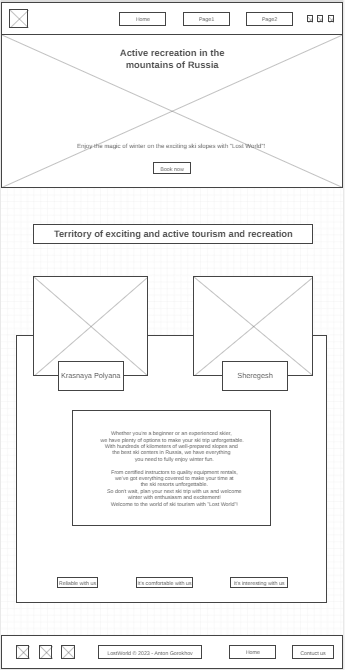
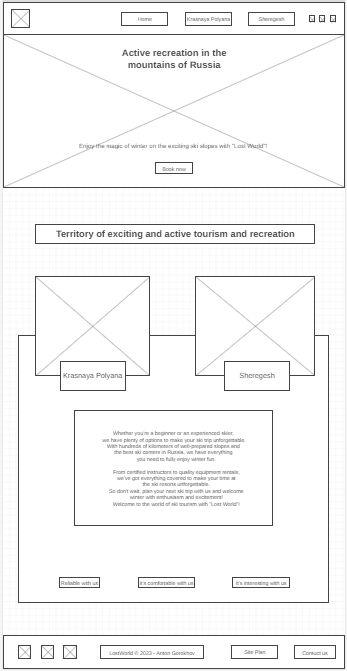
W10 Assignment: Personal Site HTML

diff --git a/lostworld/sheregesh.html b/lostworld/sheregesh.html
@@ -1,0 +1,107 @@
+<!DOCTYPE html>
+<html lang="en">
+<head>
+    <meta charset="UTF-8">
+    <meta http-equiv="X-UA-Compatible" content="IE=edge">
+    <meta name="viewport" content="width=device-width, initial-scale=1.0">
+    <title>Lost World | Sheregesh</title>
+    <link rel="stylesheet" href="styles/style.css">
+</head>
+<body>
+    <div id="content">
+        <header>
+            <a id="logo_link" href="index.html">
+                <img class="logo" src="images/logo.png" alt="Lost World Logo">
+            </a>
+            <nav>
+                <a href="index.html">Home</a>
+                <a href="krasnayapolyana.html">Krasnaya Polyana</a>
+                <a href="sheregesh.html">Sheregesh</a>
+            </nav>
+            <div class="social">
+                <a href="https://facebook.com" target="_blank">
+                    <img src="images/facebook.png" alt="fb icon">
+                </a>
+                <a href="https://twitter.com" target="_blank">
+                    <img src="images/twitter.png" alt="twitter icon">
+                </a>
+                <a href="https://instagram.com" target="_blank">
+                    <img src="images/instagram.png" alt="instagram icon">
+                </a>
+            </div>
+        </header>
+        <div id="hero">
+            <div id="hero-box">
+                <img id="hero-img" src="images/sheregesh-hero.png" alt="Sheregesh Hero">
+            </div>
+            <section id="hero-msg">
+                <h1 class="home-title">Active recreation in the Sheregesh</h1>
+                <h4>Enjoy the magic of winter with "Lost World"!</h4>
+                <div class='button-box'>
+                    <a class='book' href="contactus.html">Book Now</a>
+                </div>
+            </section>
+        </div>
+        
+        <main>
+
+            <div class="sheregesh-grid">
+                <img class="sheregesh-img" src="images/sheregesh-img1.png" alt="Sheregesh">
+                <img class="sheregesh-img" src="images/sheregesh-img2.png" alt="Sheregesh">
+                <div id="sheregesh-background"></div>
+                <p>
+                    Sheregesh is one of the most popular and sought-after
+                    ski resorts in Russia. It is located in the Kemerovo region,
+                    in the Altai Mountains, in the heart of Siberia and
+                    offers a wide range of entertainment for winter sports lovers.
+                    
+                    The main feature of Sheregesh is its unique mountain,
+                    known as the "Mountain Range". With slopes up to 1,320 meters high,
+                    the resort offers a variety of pistes and slopes suitable
+                    for both beginners and experienced skiers and snowboarders.
+                    There are also modern lifts, including chairlifts,
+                    providing fast and comfortable lifting power.
+                    
+                    Sheregesh has a well-developed infrastructure.
+                    The resort offers a wide selection of hotels,
+                    cafes and restaurants where you can relax and have
+                    a snack after active skiing. 
+                </p>
+                <p>
+                    There is also ski equipment
+                    rental and professional instructors ready to help beginners
+                    master and improve their skills.
+                    
+                    One of the main attractions of Sheregesh is
+                    "Bolshaya Utyuganka" - a ski complex where various competitions
+                    are held, including the Snowboard World Cup. Various festivals,
+                    concerts and other entertainment events are also held here every year.
+                    
+                    The Sheregesh resort is actively developing and attracts
+                    more and more tourists with its excellent conditions for
+                    ski holidays. Thanks to its accessibility, beautiful nature
+                    and variety of entertainment, Sheregesh is considered one
+                    of the best ski resorts in the country.
+                </p>
+            </div>
+
+        </main>
+        <footer>
+            <div class="social">
+                <a href="https://facebook.com" target="_blank">
+                    <img src="images/facebook.png" alt="fb icon">
+                </a>
+                <a href="https://twitter.com" target="_blank">
+                    <img src="images/twitter.png" alt="twitter icon">
+                </a>
+                <a href="https://instagram.com" target="_blank">
+                    <img src="images/instagram.png" alt="instagram icon">
+                </a>
+            </div>
+            <p>Lost World &copy; 2023 - Anton Gorokhov</p>
+            <p><a href="site-plan.html">Site Plan</a></p>
+            <p><a href="contactus.html">Contact Us</a></p>
+        </footer>
+    </div>
+</body>
+</html>

diff --git a/lostworld/krasnayapolyana.html b/lostworld/krasnayapolyana.html
@@ -1,0 +1,102 @@
+<!DOCTYPE html>
+<html lang="en">
+<head>
+    <meta charset="UTF-8">
+    <meta http-equiv="X-UA-Compatible" content="IE=edge">
+    <meta name="viewport" content="width=device-width, initial-scale=1.0">
+    <title>Lost World | Krasnaya Polyana</title>
+    <link rel="stylesheet" href="styles/style.css">
+</head>
+<body>
+    <div id="content">
+        <header>
+            <a id="logo_link" href="index.html">
+                <img class="logo" src="images/logo.png" alt="Lost World Logo">
+            </a>
+            <nav>
+                <a href="index.html">Home</a>
+                <a href="krasnayapolyana.html">Krasnaya Polyana</a>
+                <a href="sheregesh.html">Sheregesh</a>
+            </nav>
+            <div class="social">
+                <a href="https://facebook.com" target="_blank">
+                    <img src="images/facebook.png" alt="fb icon">
+                </a>
+                <a href="https://twitter.com" target="_blank">
+                    <img src="images/twitter.png" alt="twitter icon">
+                </a>
+                <a href="https://instagram.com" target="_blank">
+                    <img src="images/instagram.png" alt="instagram icon">
+                </a>
+            </div>
+        </header>
+        <div id="hero">
+            <div id="hero-box">
+                <img id="hero-img" src="images/krasnaya-polyana-hero.png" alt="Krasnaya Polyana Hero">
+            </div>
+            <section id="hero-msg">
+                <h1 class="home-title">Active recreation in the Krasnaya Polyana</h1>
+                <h4>Enjoy the magic of winter with "Lost World"!</h4>
+                <div class='button-box'>
+                    <a class='book' href="contactus.html">Book Now</a>
+                </div>
+            </section>
+        </div>
+        
+        <main>
+
+            <div class="krasnaya-polyana-grid">
+                <img class="krasnaya-polyana-img" src="images/krasnaya-polyana-img1.png" alt="krasnaya-polyana">
+                <img class="krasnaya-polyana-img" src="images/krasnaya-polyana-img2.png" alt="krasnaya-polyana">
+                <div id="krasnaya-polyana-background"></div>
+                <p>
+                    Krasnaya Polyana is a popular ski resort
+                    located in the picturesque Caucasus Mountains of Russia.
+                    With its unique mountain scenery, abundance of snow and
+                    modern ski slopes, Krasnaya Polyana is an ideal destination
+                    for winter fun lovers.
+                    The resort offers a wide variety of trails for skiers
+                    of all skill levels, from beginners to advanced athletes.
+                    Here you will find several kilometers of well-prepared trails
+                    offering excellent skiing conditions. In addition, the resort
+                    offers an extensive network of ski lifts, which provide
+                    convenience and quick access to all slopes.
+                    Krasnaya Polyana also has many opportunities for freeriding,
+                    snow safaris and other types of winter activities.
+                </p>
+                <p>
+                    You can rent equipment directly from the resort or hire
+                    an instructor to improve your skiing or snowboarding skills.
+                    In addition to winter sports, Krasnaya Polyana also has
+                    ski schools where children and adults can learn to ski or
+                    snowboard under the guidance of experienced instructors.
+                    The resort also offers a wide range of off-slope activities.
+                    You can enjoy snowmobiling, rope rides or visit cafes and
+                    restaurants serving national and international cuisine.
+                    Fresh mountain air, magnificent views of the surrounding
+                    nature and the opportunity to forget about everyday worries
+                    make a trip to Krasnaya Polyana an unforgettable experience that
+                    will delight skiers and snowboarders of any level.
+                </p>
+            </div>
+
+        </main>
+        <footer>
+            <div class="social">
+                <a href="https://facebook.com" target="_blank">
+                    <img src="images/facebook.png" alt="fb icon">
+                </a>
+                <a href="https://twitter.com" target="_blank">
+                    <img src="images/twitter.png" alt="twitter icon">
+                </a>
+                <a href="https://instagram.com" target="_blank">
+                    <img src="images/instagram.png" alt="instagram icon">
+                </a>
+            </div>
+            <p>Lost World &copy; 2023 - Anton Gorokhov</p>
+            <p><a href="site-plan.html">Site Plan</a></p>
+            <p><a href="contactus.html">Contact Us</a></p>
+        </footer>
+    </div>
+</body>
+</html>

diff --git a/lostworld/index.html b/lostworld/index.html
@@ -1,0 +1,93 @@
+<!DOCTYPE html>
+<html lang="en">
+<head>
+    <meta charset="UTF-8">
+    <meta http-equiv="X-UA-Compatible" content="IE=edge">
+    <meta name="viewport" content="width=device-width, initial-scale=1.0">
+    <title>Lost World | Home</title>
+    <link rel="stylesheet" href="styles/style.css">
+</head>
+<body>
+    <div id="content">
+        <header>
+            <a id="logo_link" href="index.html">
+                <img class="logo" src="images/logo.png" alt="Lost World Logo">
+            </a>
+            <nav>
+                <a href="index.html">Home</a>
+                <a href="krasnayapolyana.html">Krasnaya Polyana</a>
+                <a href="sheregesh.html">Sheregesh</a>
+            </nav>
+            <div class="social">
+                <a href="https://facebook.com" target="_blank">
+                    <img src="images/facebook.png" alt="fb icon">
+                </a>
+                <a href="https://twitter.com" target="_blank">
+                    <img src="images/twitter.png" alt="twitter icon">
+                </a>
+                <a href="https://instagram.com" target="_blank">
+                    <img src="images/instagram.png" alt="instagram icon">
+                </a>
+            </div>
+        </header>
+        <div id="hero">
+            <div id="hero-box">
+                <img id="hero-img" src="images/home-hero.png" alt="People enjoying sun and mountains">
+            </div>
+            <section id="hero-msg">
+                <h1 class="home-title">Active recreation in the mountains of Russia</h1>
+                <h4>Enjoy the magic of winter on the exciting ski slopes with "Lost World"!</h4>
+                <div class='button-box'>
+                    <a class='book' href="contactus.html">Book Now</a>
+                </div>
+            </section>
+        </div>
+        
+        <main>
+            <div>
+                <h1 class="home-title">Territory of exciting and active tourism and recreation</h1>
+            </div>
+
+            <div class="home-grid">
+                <img class="home-img" src="images/home-img1.png" alt="krasnaya-polyana">
+                <h3>Krasnaya Polyana</h3>
+                <img class="home-img" src="images/home-img2.png" alt="sheregesh">
+                <h3>Sheregesh</h3>
+                <div id="big-background"></div>
+                <p>
+                    Whether you're a beginner or an experienced skier,
+                    we have plenty of options to make your ski trip unforgettable.
+                    With hundreds of kilometers of well-prepared slopes and
+                    the best ski centers in Russia, we have everything
+                    you need to fully enjoy winter fun.
+                </p>
+                <p>
+                    From certified instructors to quality equipment rentals,
+                    we've got everything covered to make your time at
+                    the ski resorts unforgettable.
+                    So don't wait, plan your next ski trip with us and welcome 
+                    winter with enthusiasm and excitement!
+                    Welcome to the world of ski tourism with "Lost World"!
+                </p>
+            </div>
+
+        </main>
+        <footer>
+            <div class="social">
+                <a href="https://facebook.com" target="_blank">
+                    <img src="images/facebook.png" alt="fb icon">
+                </a>
+                <a href="https://twitter.com" target="_blank">
+                    <img src="images/twitter.png" alt="twitter icon">
+                </a>
+                <a href="https://instagram.com" target="_blank">
+                    <img src="images/instagram.png" alt="instagram icon">
+                </a>
+            </div>
+            <p>Lost World &copy; 2023 - Anton Gorokhov</p>
+            <p><a href="site-plan.html">Site Plan</a></p>
+            <p><a href="contactus.html">Contact Us</a></p>
+        </footer>
+    </div>
+</body>
+</html>

diff --git a/lostworld/site-plan.html b/lostworld/site-plan.html
@@ -96,9 +96,9 @@
       </h3>
       <!-- Think about how you want your navigation bar to look. In the site-plan.css file change the colors to your colors to get the look you desire. --> 
       <nav>
-        <a href="#">Home</a>
-        <a href="#">Krasnaya Polyana</a>
-        <a href="#">Sheregesh</a>
+        <a href="index.html">Home</a>
+        <a href="krasnayapolyana.html">Krasnaya Polyana</a>
+        <a href="sheregesh.html">Sheregesh</a>
       </nav>
       <hr>
       <h2>

diff --git a/lostworld/contactus.html b/lostworld/contactus.html
@@ -1,0 +1,13 @@
+<!DOCTYPE html>
+<html lang="en">
+<head>
+    <meta charset="UTF-8">
+    <meta http-equiv="X-UA-Compatible" content="IE=edge">
+    <meta name="viewport" content="width=device-width, initial-scale=1.0">
+    <title>Lost World | Contact Us</title>
+    <link rel="stylesheet" href="styles/style.css">
+</head>
+<body>
+    
+</body>
+</html>

diff --git a/lostworld/styles/style.css b/lostworld/styles/style.css
@@ -1,0 +1,4 @@
+/* Fonts */
+@import url('https://fonts.googleapis.com/css2?family=Croissant+One&family=Inclusive+Sans&display=swap');
+
+/* Home page */
